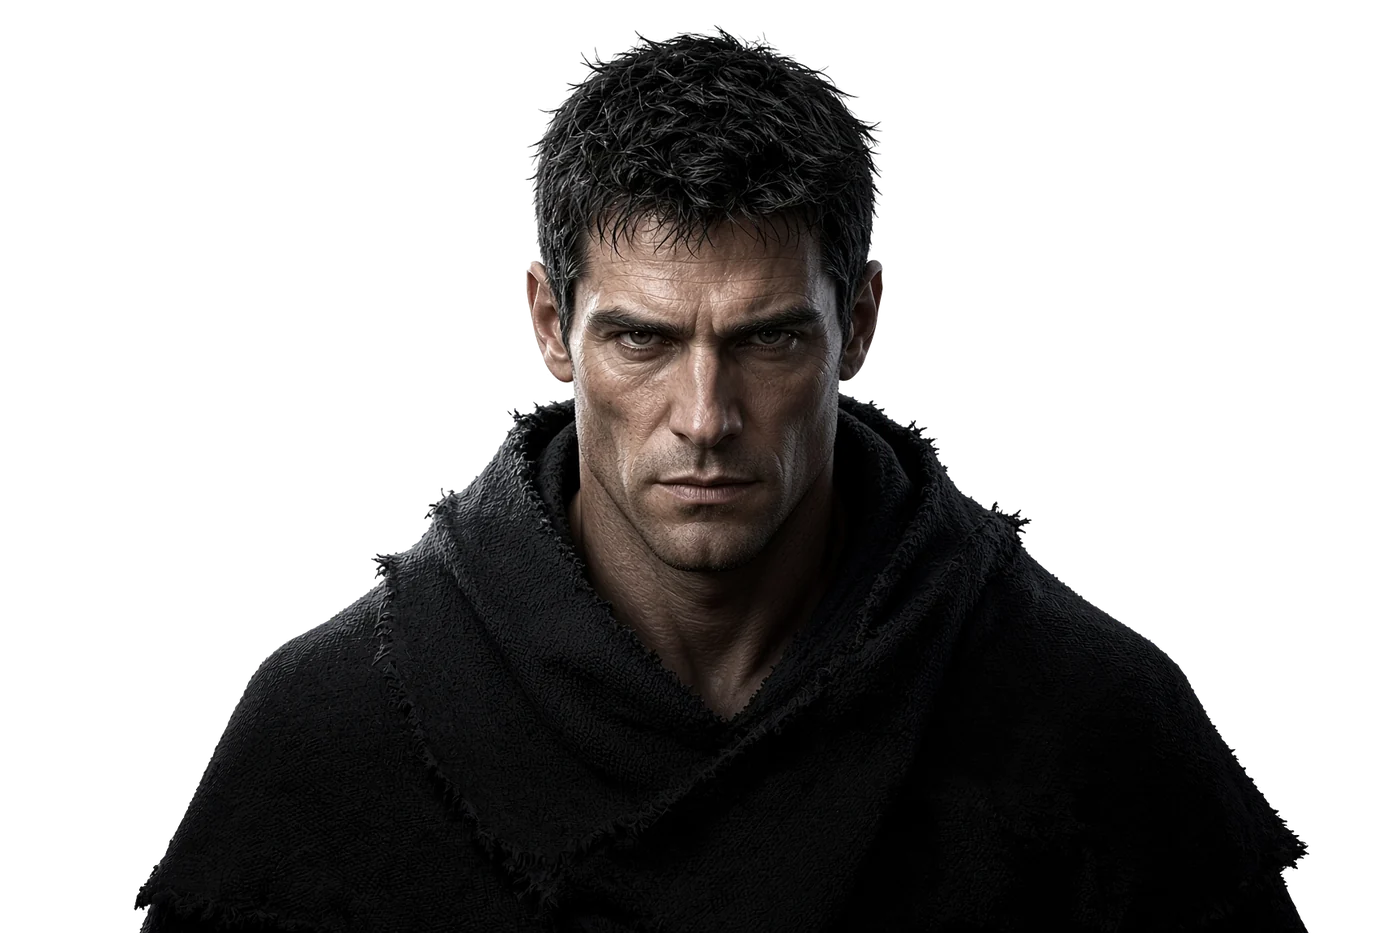
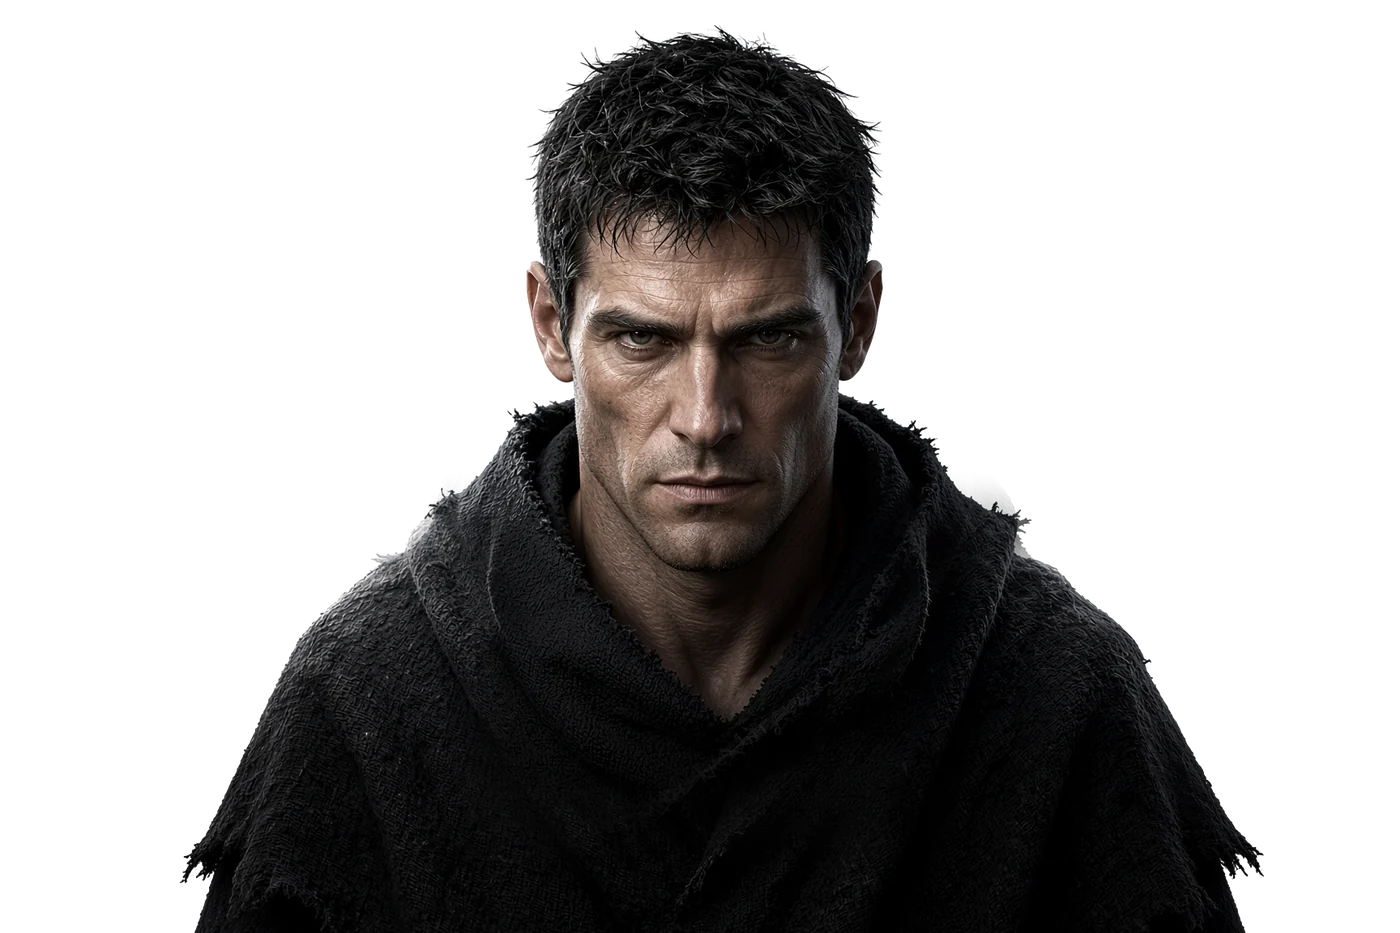
Hero: headline inverts over the figure again; uncloaked shoulders match the hood

Changed region(s): [[0.0921, 0.5595, 0.3686, 1.0], [0.7064, 0.5284, 0.9521, 1.0], [0.645, 0.5906, 0.6757, 0.6217]]

diff --git a/apps/web/src/styles.css b/apps/web/src/styles.css
@@ -165,16 +165,15 @@ a { color: inherit; text-decoration: none; }
   --m: radial-gradient(circle var(--r, 0px) at var(--x, 50%) var(--y, 36%), #000 0%, #000 52%, rgba(0, 0, 0, 0.55) 74%, transparent 100%);
   -webkit-mask-image: var(--m); mask-image: var(--m);
 }
-.hero-copy {
-  position: absolute; left: 0; right: 0; z-index: 2; pointer-events: none; text-align: center;
-  top: min(var(--rest), var(--h)); transform: translateY(calc(-100% - clamp(22px, 4.5svh, 56px)));
-}
+.uncloak { --gap: clamp(22px, 4.5svh, 56px); --cta: calc(52px + clamp(18px, 3.5svh, 34px)); }
+.uncloak-title, .hero-cta { position: absolute; left: 0; right: 0; z-index: 2; top: min(var(--rest), var(--h)); }
 .uncloak-title {
+  pointer-events: none; text-align: center; transform: translateY(calc(-100% - var(--gap) - var(--cta)));
   font: 450 clamp(44px, min(10vw, 12.5svh), 150px)/0.9 var(--font-display); letter-spacing: -0.055em;
   color: #fff; mix-blend-mode: difference;
 }
-.hero-copy .hero-actions { justify-content: center; margin-top: clamp(18px, 3.5svh, 34px); pointer-events: auto; }
-.hero-copy .btn-ghost { background: color-mix(in srgb, var(--bg) 70%, transparent); backdrop-filter: blur(10px); }
+.uncloak .hero-cta { justify-content: center; margin: 0; transform: translateY(calc(-100% - var(--gap))); }
+.hero-cta .btn-ghost { background: color-mix(in srgb, var(--bg) 70%, transparent); backdrop-filter: blur(10px); }
 .display { font: 300 clamp(44px, 6.4vw, 92px)/0.98 var(--font-display); letter-spacing: -0.045em; }
 .display-2 { font: 300 clamp(34px, 4.2vw, 58px)/1.04 var(--font-display); letter-spacing: -0.04em; }
 .lede { font-size: clamp(16px, 1.4vw, 19px); color: var(--soft); max-width: 600px; line-height: 1.55; }
@@ -473,5 +472,5 @@ select.input { font-family: var(--font-body); font-size: 14px; }
   .doc .picture { grid-template-columns: 1fr; }
 }
 /* the hero buttons sit on the dark cloak, so they stay light in both themes */
-:root:not([data-theme="dark"]) .hero-copy .btn-ink { background: var(--brand-paper); color: var(--brand-ink); }
-:root:not([data-theme="dark"]) .hero-copy .btn-ghost { background: color-mix(in srgb, var(--brand-ink) 40%, transparent); color: var(--brand-paper); border-color: color-mix(in srgb, var(--brand-paper) 35%, transparent); }
+:root:not([data-theme="dark"]) .hero-cta .btn-ink { background: var(--brand-paper); color: var(--brand-ink); }
+:root:not([data-theme="dark"]) .hero-cta .btn-ghost { background: color-mix(in srgb, var(--brand-ink) 40%, transparent); color: var(--brand-paper); border-color: color-mix(in srgb, var(--brand-paper) 35%, transparent); }

diff --git a/apps/web/src/pages/Landing.tsx b/apps/web/src/pages/Landing.tsx
@@ -179,12 +179,11 @@ function Uncloak() {
           <img src="/hero/cloaked.webp" alt="A figure hidden under a black hooded cloak" width={1400} height={933} draggable={false} />
           <img src="/hero/man.webp" alt="" aria-hidden="true" className="uncloak-reveal" width={1400} height={933} draggable={false} />
         </div>
-      <div className="hero-copy">
-        <h1 className="uncloak-title">Launch sealed.<br />Trade unseen.</h1>
-        <div className="hero-actions">
-          <Link to="/app" className="btn btn-ink btn-lg">Open app</Link>
-          <Link to="/docs" className="btn btn-ghost btn-lg">Read the docs</Link>
-        </div>
+      {/* the title blends with the figure (black on the page, white on the cloak), so it sits directly in the stage */}
+      <h1 className="uncloak-title">Launch sealed.<br />Trade unseen.</h1>
+      <div className="hero-actions hero-cta">
+        <Link to="/app" className="btn btn-ink btn-lg">Open app</Link>
+        <Link to="/docs" className="btn btn-ghost btn-lg">Read the docs</Link>
       </div>
     </div>
   );
